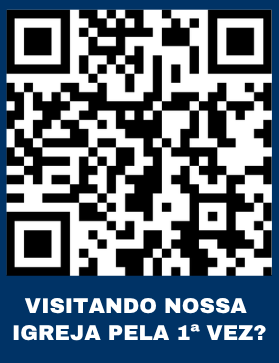
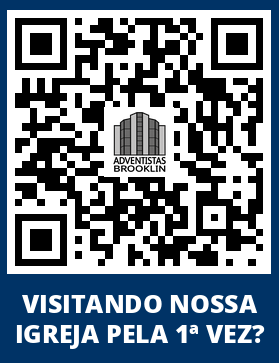
feat(assets): regenera o QR de visitante no novo modelo

diff --git a/.claude/skills/gerar-telas/scripts/gerar_qr_visitante.py b/.claude/skills/gerar-telas/scripts/gerar_qr_visitante.py
@@ -1,0 +1,26 @@
+"""Regenera o arquivo fixo assets/qr-visitante.png (QR padrão das telas).
+
+O QR de visitante é um arquivo fixo: o render.py só o cola na tela. Rode este script
+apenas quando o link ou a legenda mudarem (ou o visual do bloco de QR):
+
+    py scripts/gerar_qr_visitante.py          (Linux: python3 ...)
+"""
+import sys
+from pathlib import Path
+
+sys.path.insert(0, str(Path(__file__).resolve().parent))
+import render  # noqa: E402
+
+LINK = "https://typebot.co/my-typebot-a6oemdd"
+LEGENDA = "Visitando nossa igreja pela 1ª vez?"
+DESTINO = render.ASSETS / "qr-visitante.png"
+
+
+def main() -> int:
+    render.render_bloco_qr(LINK, LEGENDA).save(DESTINO)
+    print(DESTINO)
+    return 0
+
+
+if __name__ == "__main__":
+    sys.exit(main())
